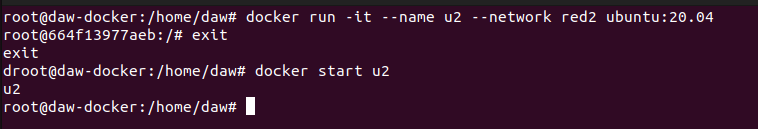
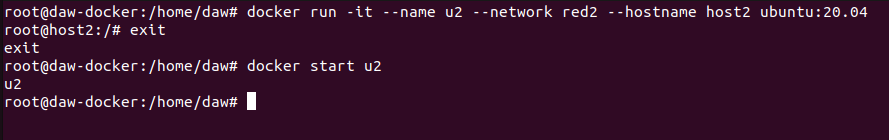
Tema 4 Ejercicio 5

Changed region(s): [[0.0, 0.031, 1.0, 0.8992]]

diff --git a/TEMA 4/DOCKERT4.md b/TEMA 4/DOCKERT4.md
@@ -46,10 +46,24 @@
 4. **Poner en ejecución un contenedor de la imagen ubuntu:20.04 que tenga como hostname host2 y que esté conectado a la red2. En este caso será docker el que le de una IP correspondiente a esa red. Lo llamaremos u2.**
 
     ```sh
-        docker run -it --name u2 --network red2 ubuntu:20.04
+        docker run -it --name u2 --network red2 --hsotname host2 ubuntu:20.04
         docker start u2
     ```
     
     ![](assets/ej4.PNG)
     
     Ponemos en ejecución la segunda máquina.
+    
+5. **Entrar en ese contenedor e instalar la aplicación ping (apt update && apt install ineutils-ping)**.
+
+    ```sh
+        docker exec -it u2 bash
+        apt update
+        apt install inetutils-ping
+    ```
+    
+    ![](assets/ej5.PNG)
+    
+    Instalamos la herramienta ping.
+    
+    
